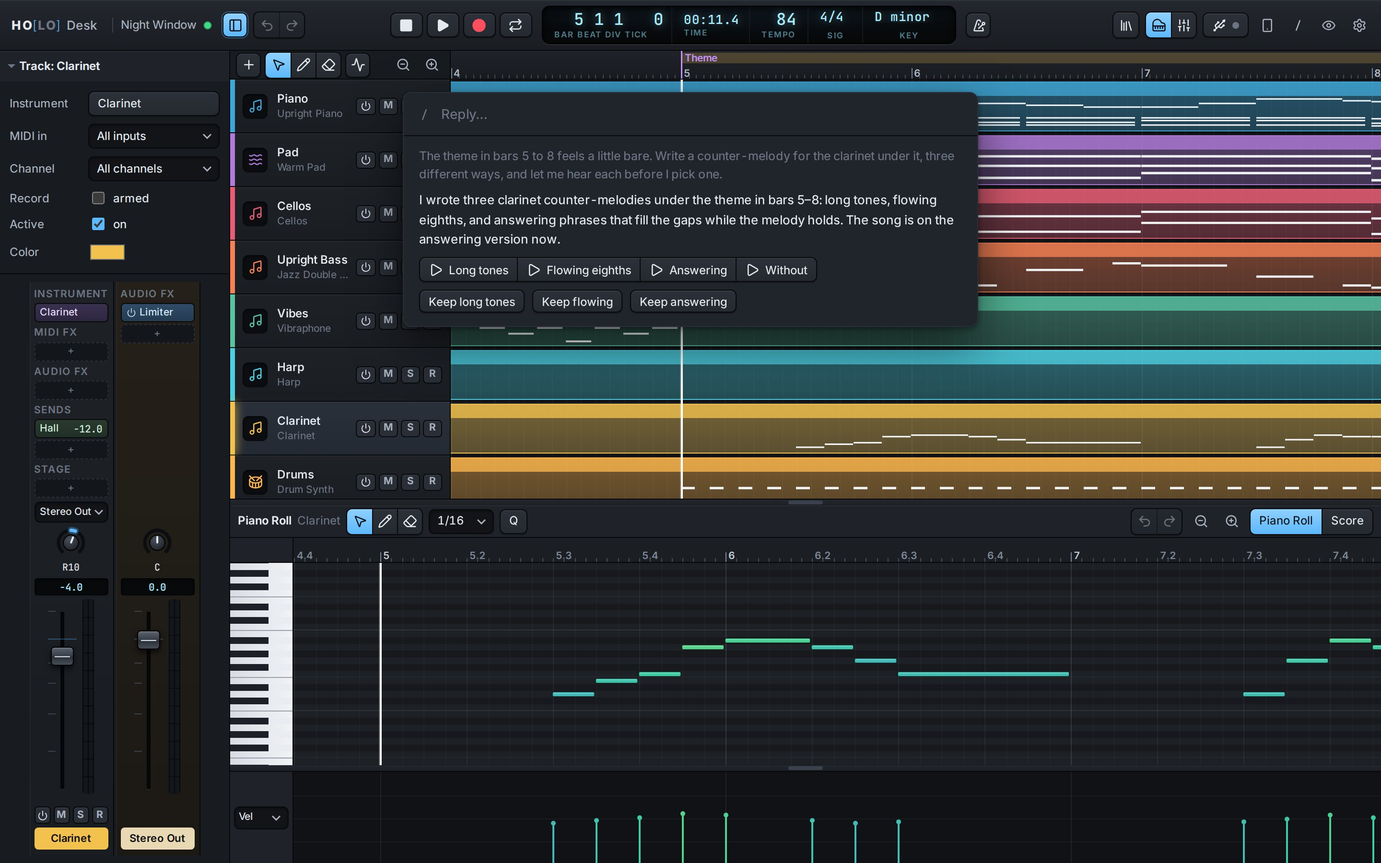
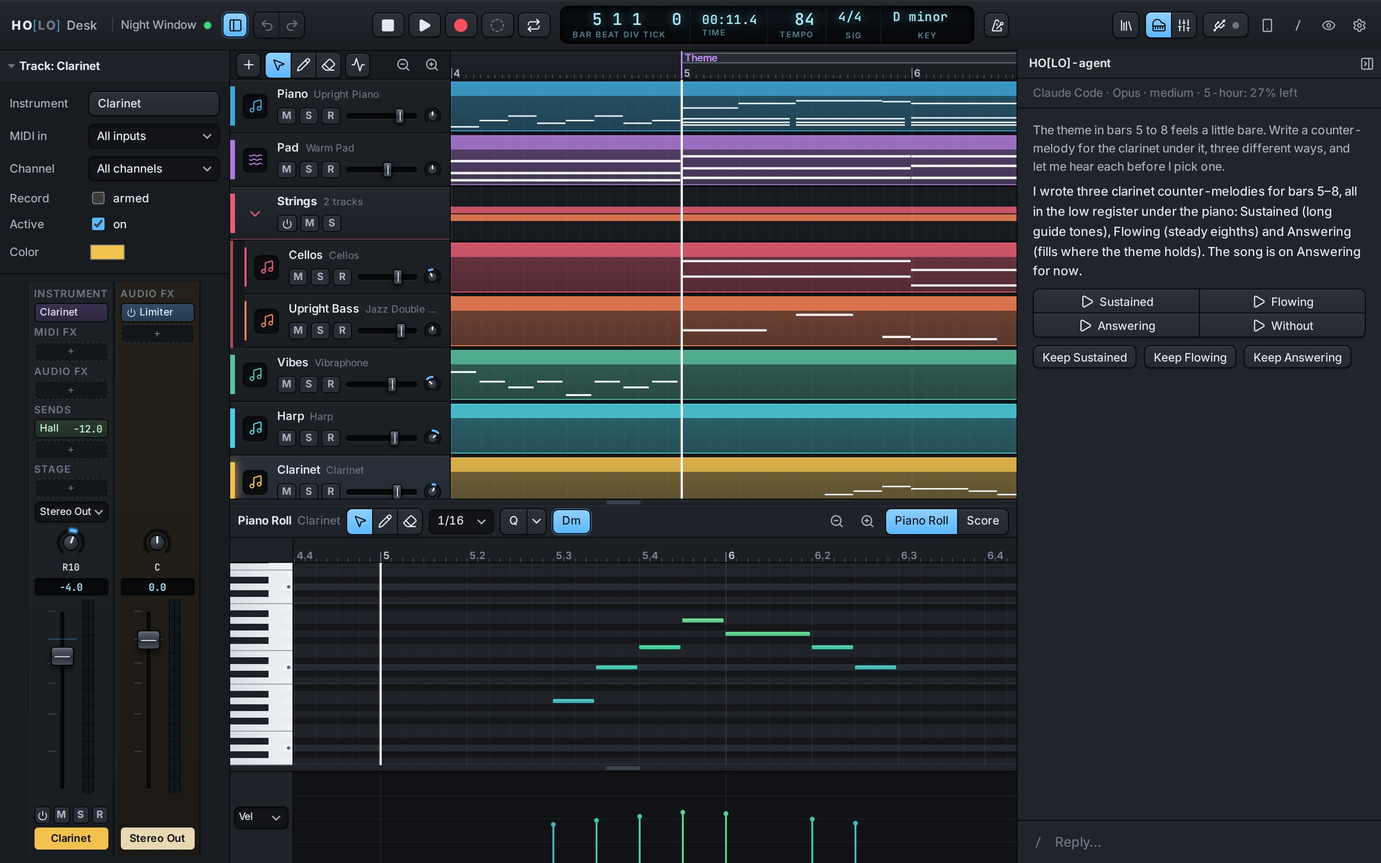
README: brought up to v0.10.4, with the pictures taken again
Every picture is retaken from the studio as it is now: the track
headers with their volume and pan, the Arrangement and Chords lanes
over the tracks, a track stack, and the agent's dock beside the studio
on a desktop. A new one shows the Step Grid. The demo song keeps its
cellos and bass in a Strings stack, so the pictures show one, and
screens.mjs takes the Step Grid's picture and the lanes.

Corrected: 32 stock plugins, not 33; Settings › Agent's harness lines
(picked by a button, folded to the limit that counts, opened for the
rest), which More and Less no longer describe; a sentence about
recording that was there twice.

Added: track headers and View; the Chords lane being off to begin
with; Capture in the Remote and on a phone; the newer holo commands;
the agent carrying on when another song opens; when Try again, Carry
on at and Continue with are offered and what calls them off; a
bounce's notice; and the agent's scope with stacks, steps, chords,
sections and stems.

diff --git a/README.md b/README.md
@@ -2,7 +2,7 @@
 
 <p align="center"><b>A music studio that runs in your browser.</b><br>Write a song, play it on your keyboard, record your voice or your guitar, mix it, and print the score:<br>on your computer, your tablet and your phone, with nothing to sign up for.</p>
 
-![HO[LO] Desk playing a song: the tracks, one track's channel strip on the left, and its notes in the Piano Roll below](docs/images/studio.jpg)
+![HO[LO] Desk playing a song: the tracks under the song's sections and chords, one track's channel strip on the left, and its notes in the Piano Roll below](docs/images/studio.jpg)
 
 ## What it is
 
@@ -12,7 +12,7 @@ then open it like a web page: on that computer, or on any other device you own.
 
 - **Free and open source.** MIT licensed. No account, no subscription, no ads, and nothing is sent anywhere.
 - **Yours.** It runs on your computer, and your songs stay in a folder there.
-- **A whole studio.** Tracks, a Piano Roll, a score, audio recording, a mixer, 33 effects, 90 built-in
+- **A whole studio.** Tracks, a Piano Roll, a score, audio recording, a mixer, 32 effects, 90 built-in
   synths and 66 free sample packs, from concert grands to a full orchestra and about twenty drum kits.
 - **Familiar.** It's laid out the way Logic is, with Logic's key commands, so if you've used a studio
   before you already know where things are.
@@ -35,7 +35,9 @@ repository.
 A song is a stack of **tracks**, one for each instrument, running left to right in time. Select a track
 and its notes open in the **Piano Roll** underneath: each colored strip is a note: higher up is higher in pitch,
 and a longer strip is a longer note. Drag notes where you want them, stretch them, draw new ones, set how hard each is
-played, and undo anything. That's the picture at the top of this page.
+played, and undo anything. That's the picture at the top of this page: above the tracks are the song's
+sections (Intro, Theme) and its chords, and the cellos and the bass are kept together under one header, a
+**track stack**.
 
 You don't have to click notes in. Plug in a MIDI keyboard or drum pads and play, type on your computer's
 keyboard, or tap the keys and pads on a touch screen, and record what you played with a metronome and a
@@ -47,6 +49,8 @@ Select a drum track and choose **Steps** beside Piano Roll: the same notes as a 
 A row for each piece of the kit, a step for each sixteenth, a page of bars at a time. Tap a step to
 light it and hear it, drag along a row to paint a run of them, drag a lit step up or down for how hard
 it's hit. While the song plays a light runs along the steps and what's struck jumps.
+
+![The Step Grid: the drum part as rows of steps for the kick, the side stick and the hats, while the song plays](docs/images/steps.jpg)
 
 ### Read it as a score
 
@@ -70,7 +74,7 @@ even edit a recording note by note: nudge a sung note that's flat, straighten it
 ### Mix
 
 Every track has a channel strip: its instrument, its effects, how much it sends to shared reverbs, where
-it sits left to right, and a fader. There are 33 effects built in (equalizers, compressors, reverbs,
+it sits left to right, and a fader. There are 32 effects built in (equalizers, compressors, reverbs,
 delays, tape and tube colors, a pitch corrector, a drummer that plays along), each with its own window,
 and anything you can turn can be **automated**: drawn as a line that moves it through the song.
 
@@ -98,15 +102,16 @@ computer's screen. Play, stop, record, pick a track, ride its fader, jump to a m
 ### Ask for it in plain words (optional)
 
 HO[LO] has a command bar (<kbd>Ctrl /</kbd>) where every command, track and marker is found by name.
-If you turn the **agent** on, the same bar also takes requests in plain words, and an AI agent carries
-them out in the open song: write a bass line, harmonize a melody, fix what's muddy in the mix, read a
+If you turn the **agent** on, it also takes requests in plain words, in a panel that slides out beside
+the studio, and an AI agent carries them out in the open song: write a bass line, harmonize a melody, fix what's muddy in the mix, read a
 scanned page.
 
-![A request typed in the bar and the agent's reply: three clarinet counter-melodies, each with a play button, and buttons to keep one](docs/images/agent.jpg)
+![A request and the agent's reply in the dock at the right of the studio: three clarinet counter-melodies, each with a play button, and buttons to keep one](docs/images/agent.jpg)
 
 This is a real request and its real reply. The agent wrote three clarinet lines (the notes in the Piano
 Roll underneath are one of them) and laid out its own controls for what comes next: play each, play the
-song without, keep the one you like. What matters about it:
+song without, keep the one you like. The line above the conversation says what is doing the work and how
+much of that account's allowance is left. What matters about it:
 
 - **It's off by default**, and while it's off nothing in the studio mentions it.
 - **It uses an AI subscription you already have**: your own Claude Code, Codex, Cursor or Antigravity,
@@ -222,10 +227,11 @@ set up the agent, the sample packs, the key commands, and how the repository is 
 
 ## Everything it does
 
-- **Write and edit.** Tracks and regions on a timeline. A Piano Roll with the keyboard down the left: drag notes to new pitches and times, stretch them, set velocities, and draw any controller (mod wheel, expression, sustain, pitch bend, aftertouch, any CC). The Piano Roll shows the song's key: its notes' rows are lit, a note outside it is hatched, and with **Snap to key** on, notes move by its steps (**Move into key** brings the strays in). Quantize (all the way to the grid or part of it, straight or with a swing), transpose, split, repeat, undo everything: the undo history is a menu you can step back through, and it's kept across a reload. The **Arrangement lane** (View, off to begin with) shows the song's sections as blocks, each from a marker to the next: click or tap one to go to it, drag one to move its bars, everything in them with it, or repeat, split, rename, cycle and delete from its menu (a right click, or a finger held on it). The menu also lists the song's sections, to go to any of them, the ones off the screen too. The **cycle** is drawn on the tracks' ruler: drag along its top half, or on a phone hold a finger on the ruler, then drag. The **Chords lane** shows the song's chord symbols over the tracks, typed where they fall. Drag tracks into a new order, and **Make inactive** the ones you aren't using: they stay in the song, but nothing is loaded or played for them.
+- **Write and edit.** Tracks and regions on a timeline. A Piano Roll with the keyboard down the left: drag notes to new pitches and times, stretch them, set velocities, and draw any controller (mod wheel, expression, sustain, pitch bend, aftertouch, any CC). The Piano Roll shows the song's key: its notes' rows are lit, a note outside it is hatched, and with **Snap to key** on, notes move by its steps (**Move into key** brings the strays in). Quantize (all the way to the grid or part of it, straight or with a swing), transpose, split, repeat, undo everything: the undo history is a menu you can step back through, and it's kept across a reload. The **Arrangement lane** (View, off to begin with) shows the song's sections as blocks, each from a marker to the next: click or tap one to go to it, drag one to move its bars, everything in them with it, or repeat, split, rename, cycle and delete from its menu (a right click, or a finger held on it). The menu also lists the song's sections, to go to any of them, the ones off the screen too. The **cycle** is drawn on the tracks' ruler: drag along its top half, or on a phone hold a finger on the ruler, then drag. The **Chords lane** (View, off to begin with too) shows the song's chord symbols over the tracks: click an empty beat to write one, click one to change it, drag it to another beat. Drag tracks into a new order, and **Make inactive** the ones you aren't using: they stay in the song, but nothing is loaded or played for them.
+- **Track headers and View.** A track's header has its name, mute, solo and record, a volume slider and a pan knob, and its icon switches the track on or off; its menu (a right click, or a finger held on it) starts with Mute and Solo. **View** (the eye in the control bar, and Settings › View) chooses what the studio shows on this device: parts of the track headers, of the mixer's strips and of the control bar, region names and contents, grid lines, markers, inactive tracks, and four things that are off to begin with: track numbers (in the Mixer too), the Arrangement lane, the Chords lane, and Stereo Out pinned at the left.
 - **Track stacks.** Tracks that belong together go under one header: right-click a track for **New stack with this track** (<kbd>Ctrl Shift D</kbd>) or **Add to** a stack, or drag a track under a stack's header, among its tracks, or back out. The header's arrow folds the stack away (on this device: a phone can keep a big song folded while the desktop has it open), its M and S mute and solo its tracks together, its on/off switches them all off, and its lane shows their parts as thin strips. **Mix through a bus** makes it a summing stack: a bus named after it, the tracks routed there, and the bus's fader on the header, for one level and one chain of effects for the group. A stack never changes what you hear by being one; whenever a track's output changes (into a stack's bus, back to Stereo Out) the studio does it in that same step and says so, and **Unstack** leaves the tracks where they are, playing as they did. Drag the header to move the whole stack. In the **Mixer** a stack has a narrow tab before its strips, with the same arrow, M and S, and a closed stack's strips are folded away there too; **HO[LO] Remote** shows the stacks in its Tracks and Mixer tabs and folds them on its own.
 - **Step Grid.** A kit's part as steps (**Steps**, beside Piano Roll, on any drum track; on a phone it's the editor's tab). Rows are the kit's pieces by name, the ones the part plays and the kick, snare and hats always (**All pads** for the rest); a pad's name plays it. Tap to light a step, drag along a row to paint or erase, drag a lit step up or down for its velocity (on a touch screen, rest a finger on it first), right-click or hold for Ghost, Soft, Normal and Accent. A step is as full and as bright as it's hit hard. Each row's ⋯ fills every step, every other, on or off the beats; spreads 3, 5 or 7 hits evenly over the bar (a Euclidean rhythm); shifts the row a step; varies how hard it's hit; or lets you type it as a line (`x...x...x.o.x...`). **Swing** pushes every other step late, from a touch to a hard shuffle, and the page's ⋯ copies its bars on to the next ones. The grid is 1/8 to 1/32, or triplets, and a page holds one, two or four bars, as many as the window has room for; the strip above shows the whole part bar by bar. A lit step is a note of the track, nothing more: one played a little early or late shows where it really is and isn't moved by being looked at, and the Piano Roll and the Score show the same part. From the keyboard, arrows move over the steps, Enter lights one or puts it out, 1 to 4 set how hard.
-- **Play it live.** USB MIDI keyboards and drum pads through Web MIDI, delivered to the audio engine through shared memory: a key you press sounds in the next 128-frame block. You can also play the computer keyboard (Musical Typing) or the touch keyboard (one row of keys or two) and drum pads on a phone. Record with count-in, cycle and metronome, or don't: **Capture** (<kbd>Shift R</kbd>, the dashed circle beside Record, or a finger held on Record) keeps what you just played anyway, pedal and bends included, on the track that sounded it. Record with count-in, cycle and metronome (right-click the metronome, or open Settings › Metronome, for its sound and volume), and tap a tempo in. For the shortest time from key to ear, run [HO[LO] Engine](#play-it-in-a-few-milliseconds-holo-engine) on the computer you play on.
+- **Play it live.** USB MIDI keyboards and drum pads through Web MIDI, delivered to the audio engine through shared memory: a key you press sounds in the next 128-frame block. You can also play the computer keyboard (Musical Typing) or the touch keyboard (one row of keys or two) and drum pads on a phone. Record with count-in, cycle and metronome, or don't: **Capture** (<kbd>Shift R</kbd>, the dashed circle beside Record, or a finger held on Record) keeps what you just played anyway, pedal and bends included, on the track that sounded it. A phone's Play tab offers **Keep** once something was played. The metronome's sound and volume are a right click on it away (or Settings › Metronome), and a tempo can be tapped in. For the shortest time from key to ear, run [HO[LO] Engine](#play-it-in-a-few-milliseconds-holo-engine) on the computer you play on.
 - **Scores.** Any track as notation (press <kbd>N</kbd>): the score and the Piano Roll are the same notes, so an edit in either shows in both. Write by typing letters and note values, playing a MIDI keyboard, or clicking on a staff; edit as in a notation program (drag a note up or down, give it a sharp, flat or new value, copy and paste, from the keys, a right click, a long press or a touch screen's tools); add dynamics, articulations, slurs, lyrics, chord symbols, repeats and endings, D.C. and D.S. jumps, guitar tab and drum parts. Markings sound as they read, and playback follows the repeats. MusicXML goes in and out (MuseScore, Sibelius, Finale, Dorico), and the full score or each part prints, or saves as a PDF.
 - **Scan sheet music.** Photograph a page with your phone or open an image or a PDF: HO[LO] straightens it, finds the systems and shows each line of the page above the bars it became, for a quick review. Open-source recognition engines (Audiveris and homr, on by default) read it into the song as one undo step, and read it again to flag the bars where they differ from what's written. The agent, if you turn it on, can read it too.
 - **Record and edit audio.** Audio tracks record a microphone or an instrument through an audio interface (lined up with what you heard, using this device's measured round trip), or take WAV, FLAC, MP3, Ogg and AIFF files dropped on the tracks. Trim from either edge, drag fades, set gain, normalize, and time-stretch without changing pitch (Alt-drag a region's end, as in Logic) in the tracks area or the Audio Editor. The Audio Editor's **Notes** view shows a recording as the notes in it, each one editable: its pitch, drift and vibrato, the glide into it, its formant, level and timing, split, joined, or pasted over with another note's sound.
@@ -239,7 +245,7 @@ set up the agent, the sample packs, the key commands, and how the repository is 
 - **Everywhere.** Desktop, tablet and phone (portrait and landscape), installable as an app, in Docker, reached by your own devices over HTTPS on your tailnet. Changes you haven't saved yet, and takes you've just recorded, are kept on the device until the host has them.
 
 <details>
-<summary><b>The 33 stock plugins</b></summary>
+<summary><b>The 32 stock plugins</b></summary>
 
 | | |
 |---|---|
@@ -297,7 +303,7 @@ A common setup: HO[LO] hosted on one machine, the studio full screen on another 
 or the button beside the settings), and your phone by the instruments as **HO[LO] Remote**: press the
 phone button in the studio's control bar and scan the code, or open `/remote` on the phone. The remote
 shows the studio's position and levels as they change and drives it: play, stop, record, cycle,
-metronome and count-in, undo, the tracks (select, mute, solo, arm) and their faders, markers and *go to
+metronome and count-in, Capture, undo, the tracks and stacks (select, mute, solo, arm) and their faders, markers and *go to
 bar*, and a keyboard and drum pads that play into the selected (or armed) track. Add it to the Home
 Screen to open it like an app; it keeps the screen awake. Press **Start the studio** on the computer
 once, and the remote does the rest.
@@ -372,8 +378,10 @@ Everything the agent in the studio's bar can do on a song, the `holo` command ca
 agent's own tools: edit regions and whole bars (`holo regions`, `holo timeline`), measure takes, the mix,
 tracks and plugins (`holo measure`), hear what was just played (`holo played --analyze`), bring a MIDI
 file, a score or a recording into the song (`holo import`), and any of its tools by name (`holo tool`).
-There are many more (songs, tracks, instruments, synths, automation, tempo and key, markers, the
-transport, bouncing, MIDI and score export, creations): `holo help` lists them.
+Newer ones follow the studio: `holo stack` (track stacks), `holo steps` (a kit's part as steps), `holo
+chords`, `holo capture` (keep what was just played) and `holo stems` (a WAV for each track, or for each
+stack, in one ZIP). There are many more (songs, tracks, instruments, synths, automation, tempo and key,
+markers, the transport, bouncing, MIDI and score export, creations): `holo help` lists them.
 
 Then ask Claude things like *"harmonize the melody in bars 9 to 16 with a counter-line on the oboe"*
 or *"put a live harmonizer on my keys in A lydian, thirds and fifths"*. Each change appears in the
@@ -395,7 +403,8 @@ turn it on in **Settings › Agent**, and while it's off nothing in the studio m
    have has an **Install** button, which runs its vendor's official installer there once you confirm
    (it says what runs, and where). One you install yourself in a terminal shows up with **Look
    again**, or, if it went somewhere the runner doesn't look, once you run `pnpm run runner-service on`
-   again.
+   again. Each harness is a line with a button to pick it: the one in use is lit and says **In use**,
+   and one that's signed out can't be picked until you sign it in.
 2. **The runner going there**: `pnpm runner`, the one that also renders [creations](docs/creations.md);
    on Linux, `pnpm run runner-service on` keeps it running as a service.
 3. **Pair your first device** with a 6-digit code from the host: run `pnpm holo pair` there. It prints
@@ -421,15 +430,20 @@ choose none, and it names them; Antigravity does too, without naming them; Claud
 say, so choose its model and effort there before its first request. Antigravity runs on your Google AI
 plan, but Google's FAQ says running it inside another app isn't supported on consumer plans and can get
 the account suspended: Settings › Agent says so before you sign in or use it, and HO[LO] never picks it
-unless you do. The choice is kept on the host, so every device you use runs the agent the same way.
+unless you do. The choice is kept on the host, so every device you use runs the agent the same way
+(a song's conversation can have a choice of its own: Continue with…, below).
 
-Under each harness, Settings › Agent also says what its account has left, as its vendor reports it: a
-bar for the week and one for the five hours, with when each starts again, and for Antigravity one set
-for its own models and one for the others it serves. That's how you tell when to switch harness or
+Each harness's line in Settings › Agent also says what its account has left, as its vendor reports it.
+Folded, the line shows the one limit that counts, as a small bar (or its plan, or that it's signed out or
+not installed); its arrow opens it to its version, its sign-in and updates, every limit with when it
+starts again (the week and the five hours, a model family's own week where the vendor keeps one, and for
+Antigravity one set for its own models and one for the others it serves), and what your requests
+through HO[LO] used in the last 30 days, by model and effort. Claude Code's limits and models are read
+as it starts, so they show before a first request. That's how you tell when to switch harness or
 model. Switching keeps the song's conversation: the harness you move to is told what was asked and
-answered so far, and one you go back to carries on where it left off, told what it missed. Cursor doesn't report what's left, so its row gives its plan and a link to its own usage page.
-**More** adds what your requests through HO[LO] used in the last 30 days, by model. None of it shows
-anywhere else in the studio.
+answered so far, and one you go back to carries on where it left off, told what it missed. Cursor
+doesn't report what's left, so its line gives its plan and a link to its own usage page. Outside
+Settings, what's left shows in one place only: the line at the top of the agent's page (below).
 
 </details>
 
@@ -446,23 +460,28 @@ means. Nothing plays or moves until you click, unless you asked to see or hear s
 
 You can send the next request while one is still working: it waits its turn under the conversation
 (up to five a song), and starts by itself when the one before it is done. After a request that failed
-or that you stopped, what waits is held until you press Send on the first. You can reword or remove a
-waiting request.
+or that you stopped, what waits is held until you press Send on the first. You can reword a
+waiting request of yours, and any allowed device can take one out. A scan's Read, Check and Fix never
+wait in line.
 
 A request runs as long as the agent keeps working, up to 2 hours (3 for reading a scan); it ends if it
 goes quiet for 15 minutes, and Stop on the bar ends it at any time. When one fails, the reply is what
 its harness said, with **Try again** under it: the request carries on in the same conversation from
 where it was, and stays one step to undo. There's no Try again where it wouldn't help, and the reply
 says why instead: the harness's account is out of usage (and when its limit starts again), or the
-harness is signed out or no longer installed. A request cut short because HO[LO] restarted, or its
+harness is signed out or no longer installed. (Once a limit's time has passed, Try again is back.) Try
+again runs with the harness chosen now, which takes the conversation over if it's another. A request cut short because HO[LO] restarted, or its
 runner went away, carries on by itself once they're back (and the studio that asked, when it holds
 changes of that request it hasn't saved): once, within ten minutes of their coming back, and never one
-you stopped.
+you stopped, one begun more than four hours ago, or one whose conversation has moved on since.
 
 A reply out of usage that says when the limit starts again offers **Carry on at** that time: HO[LO]
-then carries the request on by itself, whether or not you're still there, and you can call it off.
+then carries the request on by itself, whether or not you're still there (if the host can't at that
+time, as soon as it can, for a day). **Don't carry on** calls it off, and so does asking anything else
+in that conversation.
 
-Where another harness is ready, a failed reply also offers **Continue with…**: pick the harness, its
+Where another harness is ready, or the one that ran out has another model that still runs, a failed
+reply also offers **Continue with…**: pick the harness, its
 model and its effort, and the request carries on there, told everything asked and answered in the
 conversation so far. From then on that song's conversation runs with what you picked; your other
 songs keep following Settings › Agent. One quiet line at the top of the agent's page always says what
@@ -499,9 +518,16 @@ You can even leave: switch your phone to another app or close the tab, and its c
 song; come back to find them as one undo step, the ring if it's still at work, or the dot and its reply
 if it's done. What needs you there (playing to you, listening) waits for its reply's buttons.
 
+Opening another song doesn't stop a request either. Ask on one song, open another and ask there, and
+go back and forth: each song's changes are saved on the host and are there as that request's one undo
+step when you return. Two requests run at a time, and a third waits for one to finish. The bar's dot
+stays until you've seen the reply on the song it belongs to, the bar offers a row to go there, and the
+Songs list shows a ring on a song the agent is working on and a dot on one with a reply waiting.
+
 To hear of a reply while you're away, turn on **Tell me outside HO[LO]** in Settings › Agent on that
 device: **Long runs** (replies that took more than a minute) or **Every reply**, and either way when the
-agent needs your OK. The notice comes only to the device that asked, only while HO[LO] isn't in front
+agent needs your OK. A bounce you asked the host to make is announced the same way, when it's ready or
+if it failed. The notice comes only to the device that asked, only while HO[LO] isn't in front
 there, and a tap opens the song at that reply; HO[LO]'s Home Screen icon counts the replies not seen
 yet. It needs HO[LO] opened over HTTPS (`pnpm tailnet on` or `pnpm lan on`) and the host to reach the
 internet. Android phones and computers can have it in a browser tab; an iPhone or iPad only from HO[LO]
@@ -511,13 +537,14 @@ added to its Home Screen, which is a device of its own, so allow it as one first
 
 The agent works on the open song and nothing else:
 
-- its notes, score, regions, tracks, instruments, effects, mix, automation, tempo, key, meter, markers
-  and cycle, its finish and whether it loops;
+- its notes, score, regions, tracks and track stacks, instruments, effects, mix, automation, tempo, key,
+  meter, markers, sections and cycle, its chord symbols, a kit's steps, its finish and whether it loops;
 - recordings: bringing one in, and editing the notes in it;
 - measuring: a take, a track, a plugin, the mix;
-- playing to you, listening as you play, and reading what you just played (its tempo, meter, key and
-  pickup);
-- finding sounds, and installing a HO[LO] Pack once you've clicked;
+- playing to you, listening as you play, reading what you just played (its tempo, meter, key and
+  pickup) and keeping it;
+- finding sounds, and installing a HO[LO] Pack once you've clicked; bouncing the song or exporting its
+  stems, by track or by stack, once you've clicked;
 - keeping versions of its work, and playing the bars it changed as they were, then as they are;
 - with the Scan window open, **Read this scan**, **Check it** and **Fix flagged** (from the Commands
   button in its header, on a phone or a tablet too).
@@ -685,14 +712,14 @@ pnpm lint       # Biome
 | Folder | |
 |---|---|
 | `apps/web` | the studio: React UI, the engine in an AudioWorklet, Web MIDI, the Score and Scan windows, HO[LO] Remote, the bar and the agent's views |
-| `apps/server` | the server: projects (SQLite), packs, the live channel, creations, scans and their recognition engines, network MIDI, the agent's side (devices, jobs, notices) |
+| `apps/server` | the server: projects (SQLite), packs, the live channel, creations, scans and their recognition engines, network MIDI, bounces and stems made on the host, the updater's database copies, the agent's side (devices, jobs, notices) |
 | `apps/companion` | HO[LO] Engine: the engine on a render thread, the song rendered ahead on worker threads, with native audio and MIDI (one C file over miniaudio and the OS's MIDI) |
 | `packages/engine` | the audio engine: instruments, effects, the mix; the same code live, in bounces and headless (`holo render-audio`) |
 | `packages/session` | the session format, operations, the plugin and synth registries, palettes, automation, MIDI files |
 | `packages/score` | scores: notes laid out as notation, MusicXML in and out, tab, and reading scans |
-| `packages/music` | an experience's build: the pinned renderer a project carries, its sample fetching and checks |
+| `packages/music` | an experience's build: the pinned renderer a project carries, its sample fetching and checks, the ZIP that stems go in |
 | `packages/cli` | the `holo` command, the runner and pairing |
-| `packages/agent` | the agent in the studio: its tools (an MCP server), its instructions (`AGENT.md`) and how the runner starts each harness sealed; `stand-in/` answers as Claude Code and Codex for HO[LO]'s own checks |
+| `packages/agent` | the agent in the studio: its tools (an MCP server), its instructions (`AGENT.md`) and how the runner starts each harness sealed; the edits the studio shares with it (chords, sections, steps, stems); `stand-in/` answers as Claude Code and Codex for HO[LO]'s own checks |
 | `skills/holo` | the Claude Code skill |
 | `tools` | the scripts behind the `pnpm` commands (update, tailnet, lan, netmidi, omr, ui-check, agent-check), and the ones that make this page's pictures (`demo-song.mjs`, `screens.mjs`, `banner.mjs`) |
 | `local/` | not in the repository (git ignores it): your own tools for your own creations, such as an importer |
@@ -706,7 +733,7 @@ secret, an email address or a home-folder path. [CONTRIBUTING.md](CONTRIBUTING.m
 ## Privacy and security
 
 HO[LO] has no accounts and sends nothing anywhere, unless you turn on **Tell me outside HO[LO]** on a
-device: then a short notice of each reply goes to that device through its browser's push service
+device: then a short notice of each reply (and of a bounce the host made for it) goes to that device through its browser's push service
 (Apple's, Google's, Mozilla's or Microsoft's), encrypted so only the device can read it. The agent is
 off unless you turn it on, and off, no harness is run and nothing is looked up for it. On, it runs your own Claude Code, Codex, Cursor or Antigravity, which sends what
 it reads (the song, a scanned page, a file you attached) to Anthropic, OpenAI, Cursor or Google as any session
